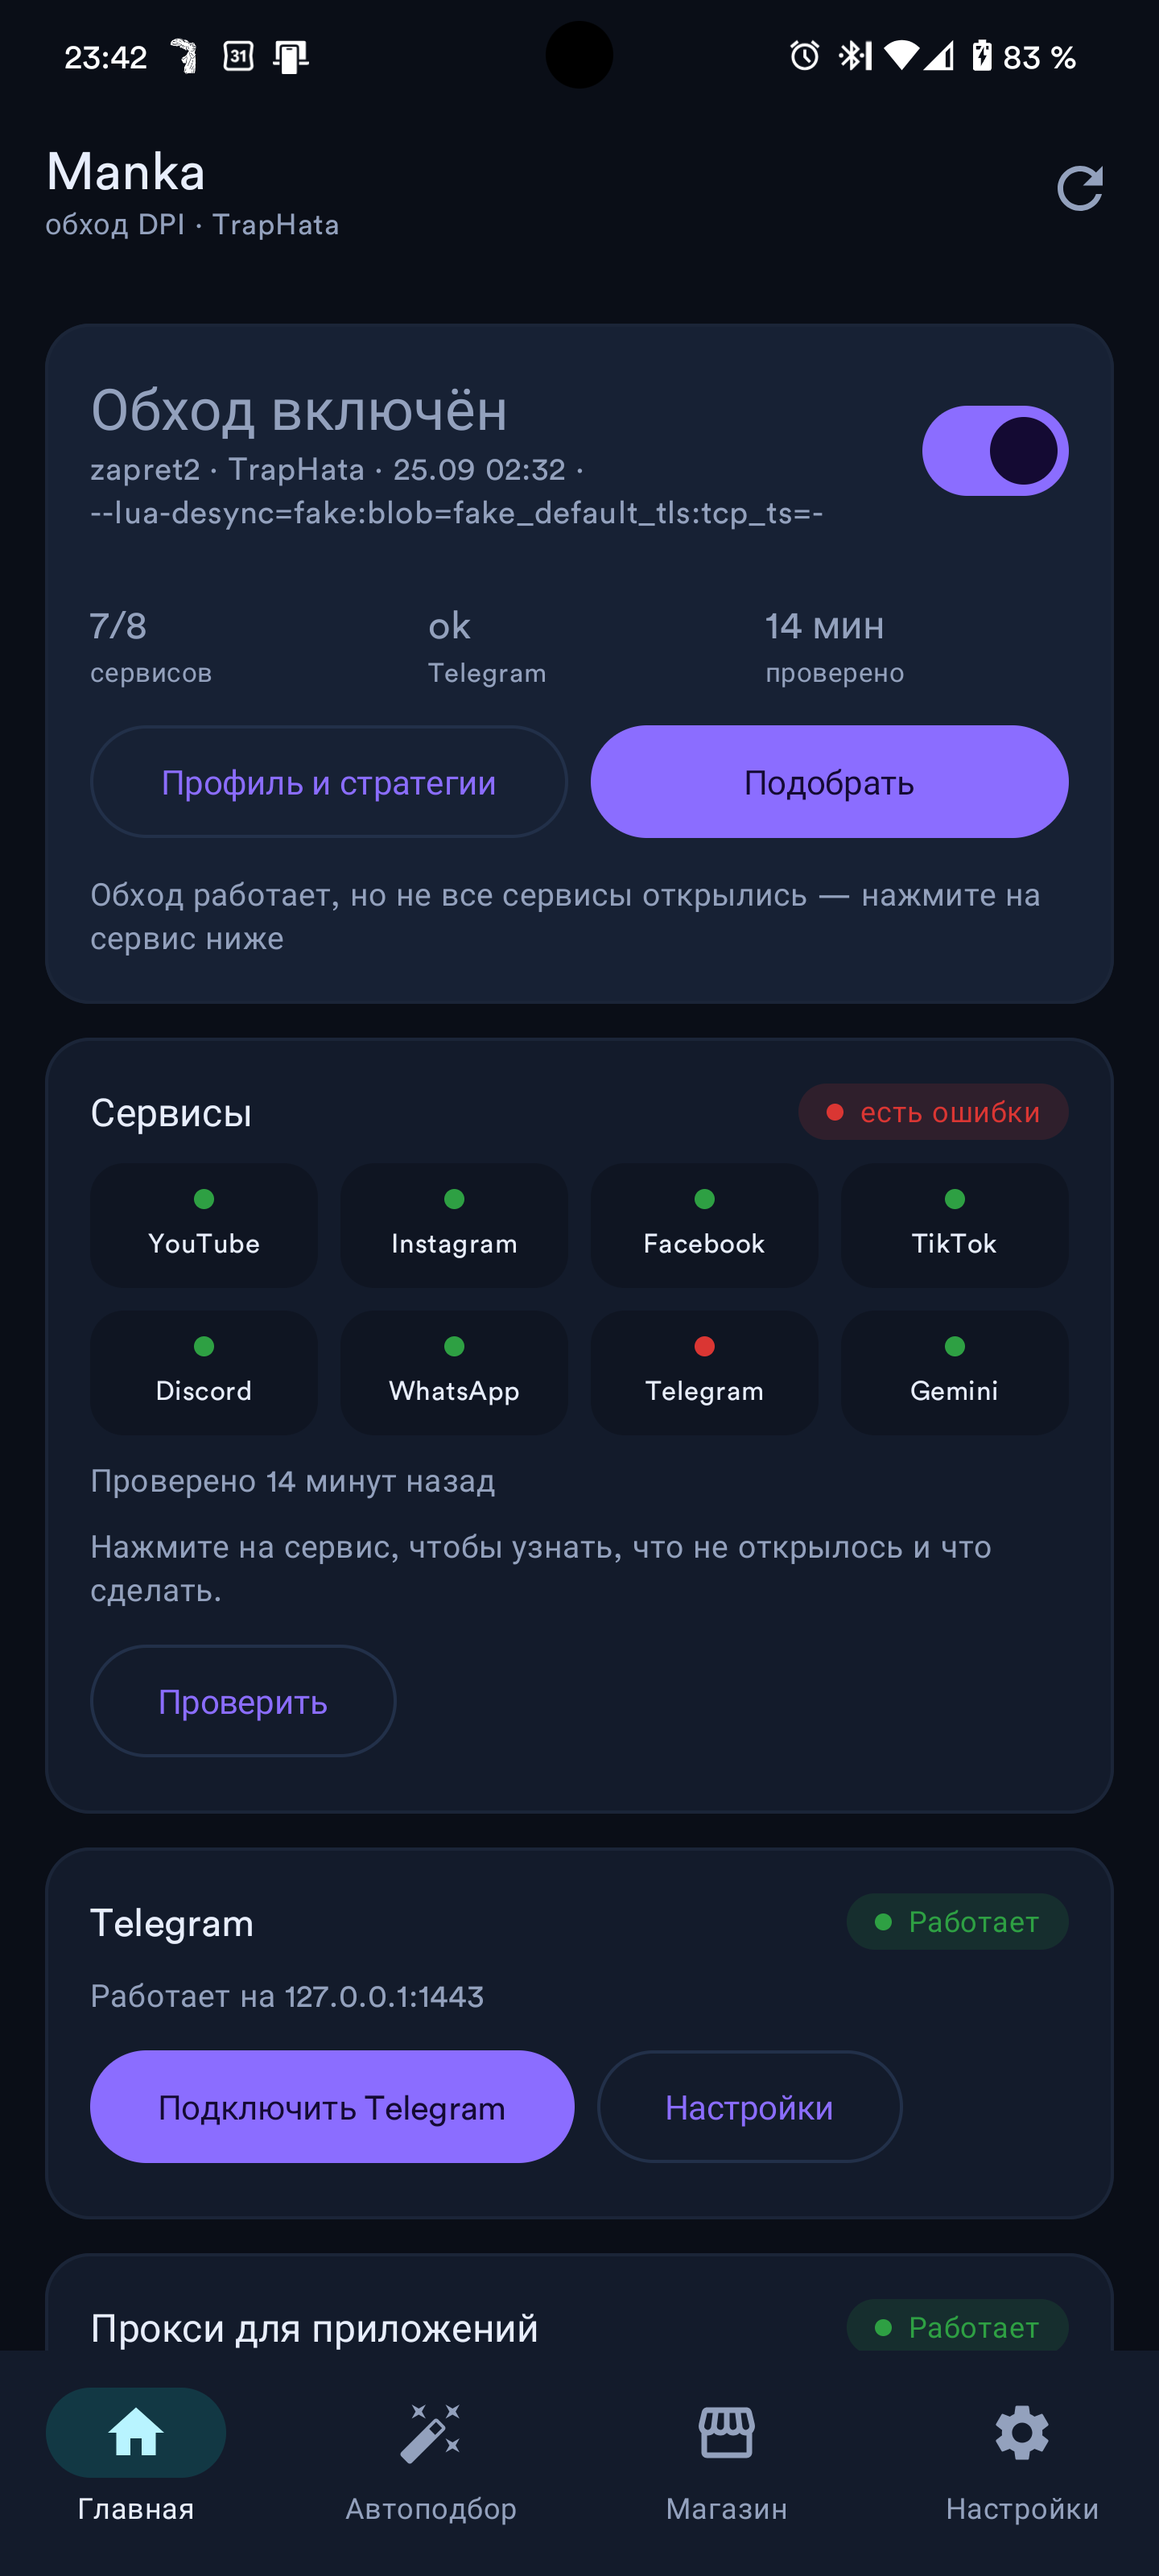
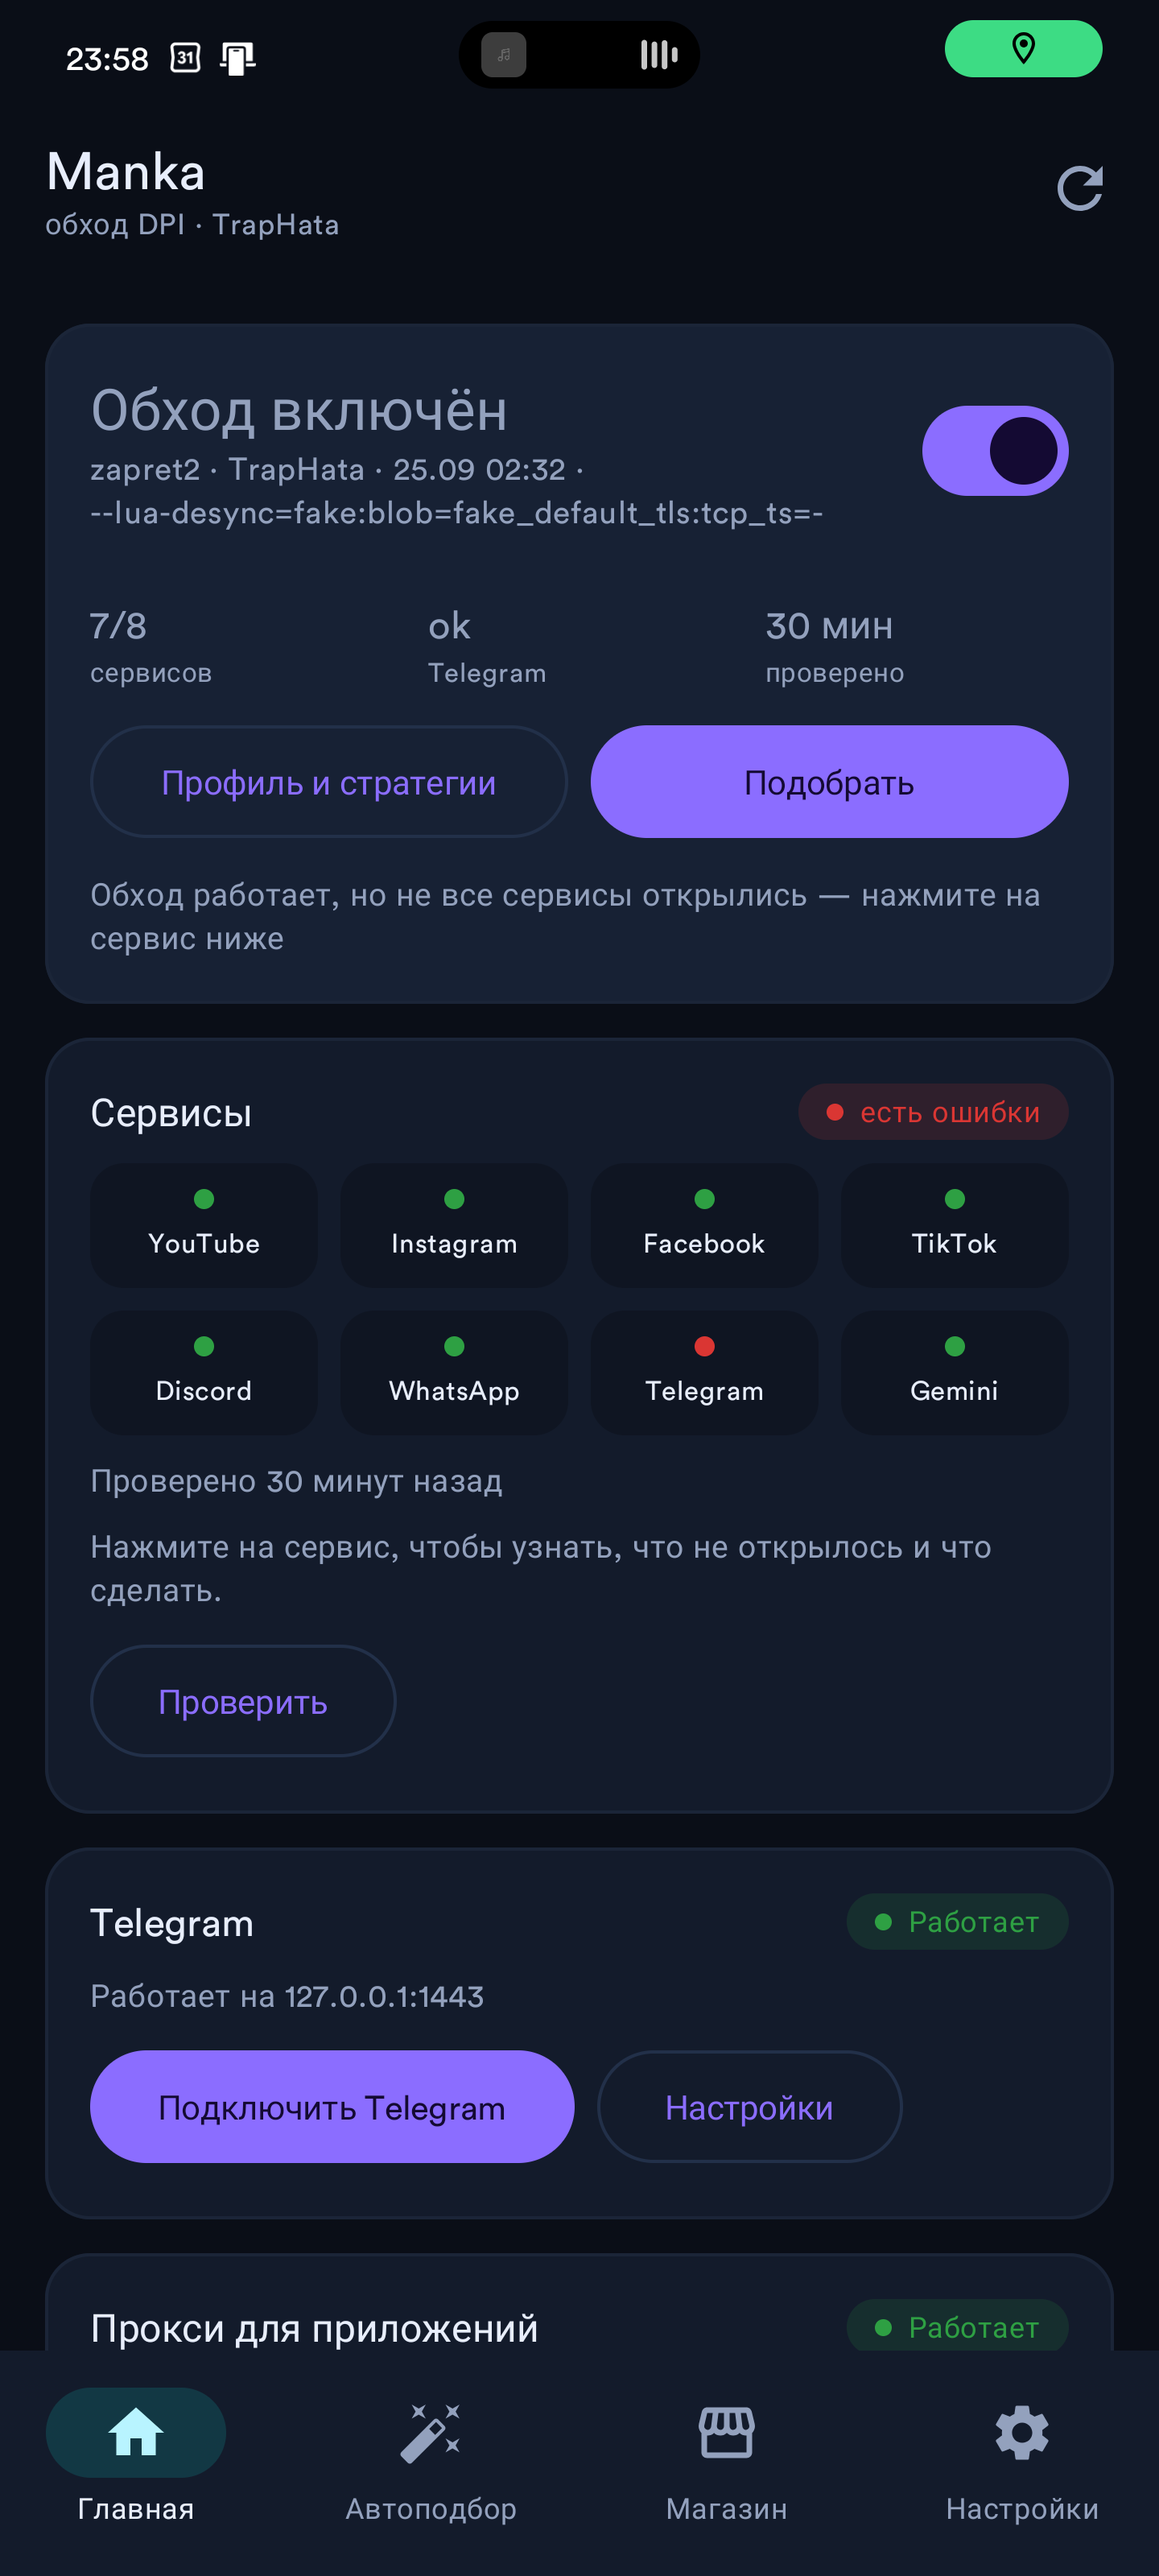
Home: keep the state subtitle to one short line
The active preset name can be a whole strategy command, it overflowed the card. Show the engine, network and 'rules applied' instead.

diff --git a/app/src/main/java/app/manka/ui/screens/HomeScreen.kt b/app/src/main/java/app/manka/ui/screens/HomeScreen.kt
@@ -77,7 +77,6 @@ fun HomeScreen(vm: MainViewModel, nav: NavHostController) {
     val status by vm.status.collectAsState()
     val loaded by vm.loaded.collectAsState()
     val busy by vm.busy.collectAsState()
-    val presetsList by vm.presets.presets.collectAsState()
     @Suppress("UNUSED_VARIABLE") val prefsVersion by vm.prefs.version.collectAsState()
     val context = LocalContext.current
     val prefs = vm.prefs
@@ -137,7 +136,6 @@ fun HomeScreen(vm: MainViewModel, nav: NavHostController) {
             val shown = remember(prefsVersion) { shownServices(vm) }
             val servicesOk = shown.values.all { it >= 100 }
             val okCount = shown.values.count { it >= 100 }
-            val active = remember(presetsList, engine, own, prefsVersion) { vm.presets.active(engine, own) }
 
             SectionCard(containerColor = MaterialTheme.colorScheme.surfaceContainerHigh) {
                 Row(verticalAlignment = Alignment.CenterVertically) {
@@ -147,7 +145,11 @@ fun HomeScreen(vm: MainViewModel, nav: NavHostController) {
                             style = MaterialTheme.typography.headlineSmall,
                             fontWeight = FontWeight.Bold,
                         )
-                        Hint("${engine.title} · ${profileTitle(vm, own)} · ${active.name}")
+                        // the preset name can be a whole strategy line: keep the card to one short line
+                        Hint(
+                            "${engine.title} · ${profileTitle(vm, own)}" +
+                                if (running) " · ${stringResource(R.string.doctor_rules)}" else "",
+                        )
                     }
                     Switch(
                         checked = prefs.enabled,
